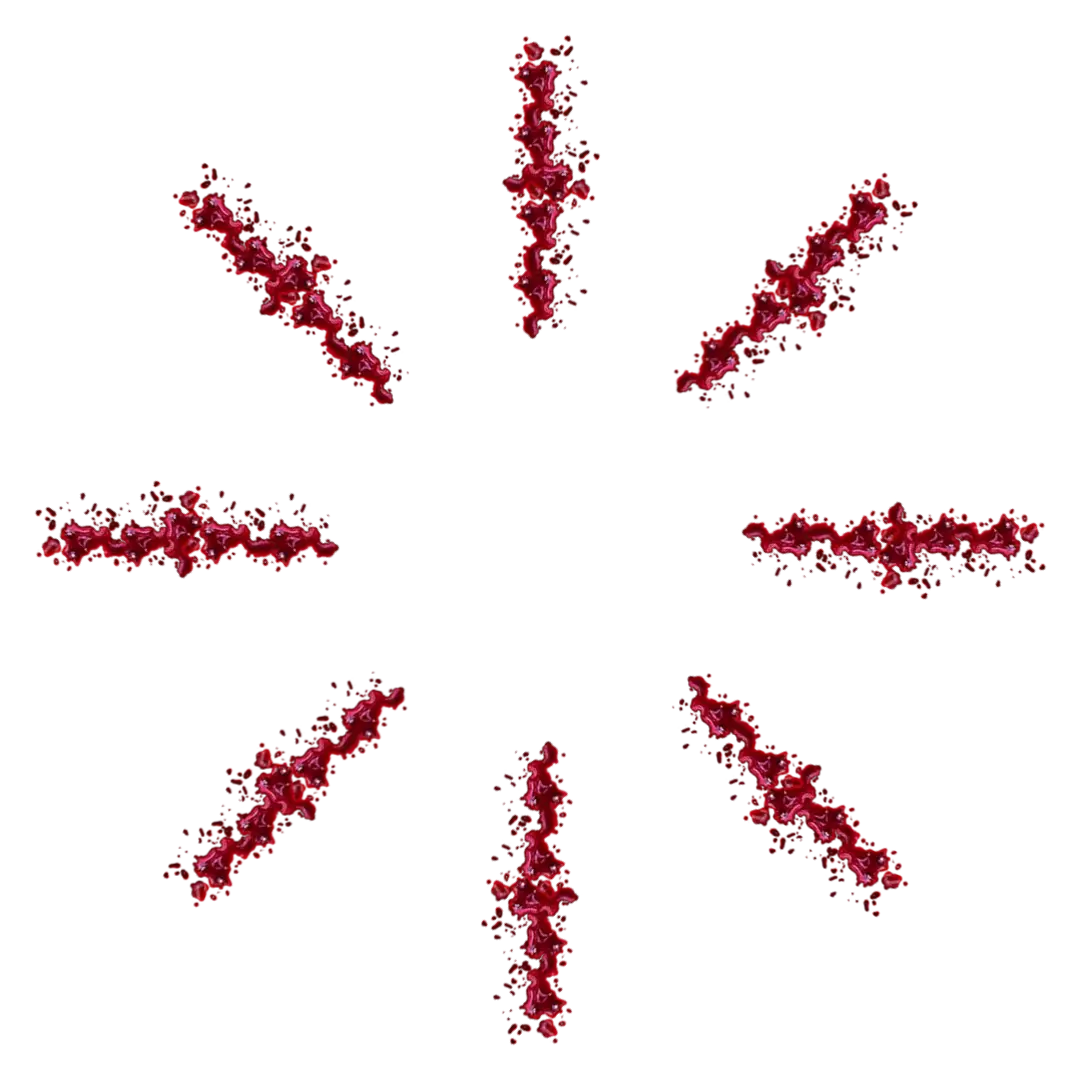
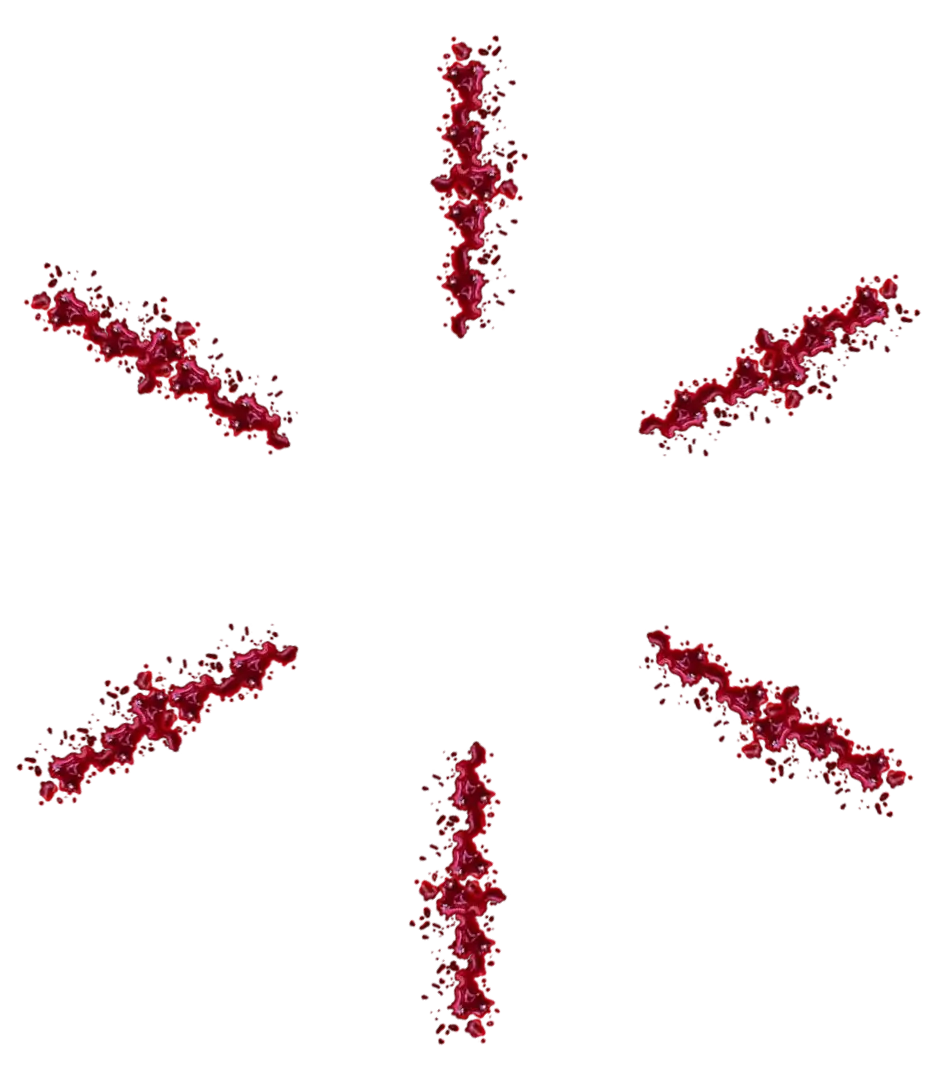
Edit social links

diff --git a/layouts/index.html b/layouts/index.html
@@ -286,18 +286,8 @@
                             </a> 
                         </li>
                         <li>
-                            <a href="">
-                                <img src="/img/twitch-logo.svg" alt="Twitch logo">
-                            </a> 
-                        </li>
-                        <li>
                             <a href="https://twitter.com/creatures_ofwar" target="_blank">
                                 <img src="/img/twitter-logo.svg" alt="Twitter logo">
-                            </a> 
-                        </li>
-                        <li>
-                            <a href="">
-                                <img src="/img/facebook-logo.svg" alt="Facebook logo">
                             </a> 
                         </li>
                         <li>
@@ -379,7 +369,7 @@
                 </div>
                 <p class="text-base text-center mb-40">Genre: Survival Horror Approximate RD: Spring 2023</p>
                 <p class="text-base text-center mb-40">Players: 1 Rating: Not Yet Rated</p>
-                <div class="flex-row between wrap">
+                <div class="social__grid">
                     <a href="https://www.youtube.com/channel/UCHkTbsExwVcYOOjE4D9o2yQ" target="_blank">
                         <img src="/img/youtube-logo.svg" alt="YouTube logo" class="logo--small">
                     </a>
@@ -395,14 +385,8 @@
                     <a href="https://www.instagram.com/gamerdevtim/" target="_blank">
                         <img src="/img/instagram-logo.svg" alt="Instagram logo" class="logo--small">
                     </a>
-                    <a href="">
-                        <img src="/img/twitch-logo.svg" alt="Twitch logo" class="logo--small">
-                    </a>
                     <a href="https://vm.tiktok.com/ZMR6URRXq/" target="_blank">
                         <img src="/img/tiktok-logo.svg" alt="TikTok logo" class="logo--small">
-                    </a>
-                    <a href="">
-                        <img src="/img/facebook-logo.svg" alt="Facebook logo" class="logo--small">
                     </a>
                 </div>
             </div>

diff --git a/assets/sass/styles.css b/assets/sass/styles.css
@@ -1125,15 +1125,15 @@ input[type=email], input[type=text] {
 
 .circle-container {
   position: relative;
-  width: 60rem;
-  height: 60rem;
+  width: 50rem;
+  height: 50rem;
   padding: 0;
   border-radius: 50%;
   list-style: none;
   margin: 5rem auto 0;
   background-image: url("/img/blood-splatter.webp");
   background-position: center center;
-  background-size: 85%;
+  background-size: 75%;
   background-repeat: no-repeat;
 }
 .circle-container > * {
@@ -1146,28 +1146,22 @@ input[type=email], input[type=text] {
   margin: -3rem;
 }
 .circle-container > *:nth-of-type(1) {
-  transform: rotate(0deg) translate(30rem) rotate(0deg);
+  transform: rotate(30deg) translate(25rem) rotate(-30deg);
 }
 .circle-container > *:nth-of-type(2) {
-  transform: rotate(45deg) translate(30rem) rotate(-45deg);
+  transform: rotate(90deg) translate(25rem) rotate(-90deg);
 }
 .circle-container > *:nth-of-type(3) {
-  transform: rotate(90deg) translate(30rem) rotate(-90deg);
+  transform: rotate(150deg) translate(25rem) rotate(-150deg);
 }
 .circle-container > *:nth-of-type(4) {
-  transform: rotate(135deg) translate(30rem) rotate(-135deg);
+  transform: rotate(210deg) translate(25rem) rotate(-210deg);
 }
 .circle-container > *:nth-of-type(5) {
-  transform: rotate(180deg) translate(30rem) rotate(-180deg);
+  transform: rotate(270deg) translate(25rem) rotate(-270deg);
 }
 .circle-container > *:nth-of-type(6) {
-  transform: rotate(225deg) translate(30rem) rotate(-225deg);
-}
-.circle-container > *:nth-of-type(7) {
-  transform: rotate(270deg) translate(30rem) rotate(-270deg);
-}
-.circle-container > *:nth-of-type(8) {
-  transform: rotate(315deg) translate(30rem) rotate(-315deg);
+  transform: rotate(330deg) translate(25rem) rotate(-330deg);
 }
 .circle-container img {
   display: block;
@@ -1628,7 +1622,7 @@ hr {
 
 .social__grid {
   display: grid;
-  grid-template-columns: repeat(4, minmax(0, 1fr));
+  grid-template-columns: repeat(3, minmax(0, 1fr));
   grid-template-rows: repeat(2, minmax(0, 1fr));
   place-items: center;
 }

diff --git a/layouts/static/press.html b/layouts/static/press.html
@@ -112,14 +112,8 @@
                 <a href="https://www.instagram.com/gamerdevtim/" target="_blank">
                     <img src="/img/instagram-logo.svg" alt="Instagram logo" class="logo--small">
                 </a>
-                <a href="">
-                    <img src="/img/twitch-logo.svg" alt="Twitch logo" class="logo--small">
-                </a>
                 <a href="https://vm.tiktok.com/ZMR6URRXq/" target="_blank">
                     <img src="/img/tiktok-logo.svg" alt="TikTok logo" class="logo--small">
-                </a>
-                <a href="">
-                    <img src="/img/facebook-logo.svg" alt="Facebook logo" class="logo--small">
                 </a>
             </div>
         </div>

diff --git a/assets/sass/layouts/_index.scss b/assets/sass/layouts/_index.scss
@@ -278,11 +278,11 @@ input[type="email"], input[type="text"] {
 }
 
 .circle-container {
-    @include on-circle($item-count: 8, $circle-size: 60rem, $item-size: 6rem);
+    @include on-circle($item-count: 6, $circle-size: 50rem, $item-size: 6rem);
     margin: 5rem auto 0;
     background-image: url('/img/blood-splatter.webp');
     background-position: center center;
-    background-size: 85%;
+    background-size: 75%;
     background-repeat: no-repeat;
 
     img {

diff --git a/layouts/legal/single.html b/layouts/legal/single.html
@@ -6,7 +6,7 @@
     <div class="container">
         <div class="text-center mx-auto">
             <h2 class="text-5xl mb-40">{{ .Title }}</h2>
-            <p class="text-xl"><strong>Last updated: </strong>{{ .Lastmod.Format "January 2, 2006" }}</p>
+            <p class="text-xl"><strong>Last updated: </strong>{{ .Date.Format "January 2, 2006" }}</p>
         </div>
     </div>
 </section>

diff --git a/assets/sass/layouts/_press.scss b/assets/sass/layouts/_press.scss
@@ -55,7 +55,7 @@ main {
 
 .social__grid {
     display: grid;
-    grid-template-columns: repeat(4, minmax(0, 1fr));
+    grid-template-columns: repeat(3, minmax(0, 1fr));
     grid-template-rows: repeat(2, minmax(0, 1fr));
     place-items: center;
 }

diff --git a/assets/sass/abstracts/_mixins.scss b/assets/sass/abstracts/_mixins.scss
@@ -40,7 +40,7 @@
         margin: -($item-size / 2);
 
         $angle: (360 / $item-count);
-        $rot: 0;
+        $rot: 30;
 
         @for $i from 1 through $item-count {
             &:nth-of-type(#{$i}) {

diff --git a/content/legal/privacy-policy.md b/content/legal/privacy-policy.md
@@ -1,6 +1,7 @@
 ---
 type: legal
 layout: privacy-policy
+date: 2021-08-27
 
 title: "Privacy Policy"
 url: "/privacy-policy"
@@ -10,23 +11,24 @@ draft: false
 
 ## Briefing
 
-This privacy policy informs you about the gathering, currations, and intent of how Ultima Entertainment, email: CreaturesOfWar@gmail.com, wants to handle your private data. 
+This privacy policy informs you about the gathering, currations, and intent of how Chaos Entertainment, email: [Cretaceousawakening@gmail.com](mailto:cretaceousawakening@gmail.com), wants to handle your private data. 
 
-This Privacy Policy is in effect when you opt-in to the Creatures Of War newsletter via the (Field Operator Program), travel to the Creatures Of War website ( www.creaturesofwar.com), or while actually playing Creatures Of War. 
+This Privacy Policy is in effect when you opt-in to the Creatures Of War newsletter via the (Field Operator Program), travel to the Creatures Of War website ([www.creatureofwar.com](https://creatureofwar.com)), or while actually playing Creatures Of War. 
 
 You will always be able to feel protected when you opt-in to giving us your private information. The intent of this Policy is to highlight how we handle your personal information and to make sure that your data is taken care of in accordance with relevant data protection laws. Our aim is to collect relevant personal data in regards to consumer segmentation. The better we understand our consumers, the more honed in we can get with product development across not only our games but all marketing communications as well. 
 
+
 ## The Data Collection Process 
 
-We gather data whenever you browse CreaturesOfWar.com, when you opt-in to our newsletter, and when you open our newsletters. The private information is stored in our CRM software and web analytics software. Ultima Entertainment can also gather information when you play our games on (Epic Games Store, Humble-Bundle, Steam, through the use of Unity Analytics). We will gather information when a bug or crash has occurred, and the user has reported said incident.
+We gather data whenever you browse CreatureOfWar.com, when you opt-in to our newsletter, and when you open our newsletters. The private information is stored in our CRM software and web analytics software. Chaos Entertainment can also gather information when you play our games on Steam, through the use of Unity Analytics. We will gather information when a bug or crash has occurred, and the user has reported said incident.
  
 ## Private Data We Analyze
 
-If you are a have opted-in to the Field Operative program by giving us your email address, we will collect and process your email address, the emails that have been interacted with, the links within each email that are engaged with, and the time, day, and year that you opted-in to the Field Operative program.
+If you have opted-in to the Field Operative program by giving us your email address, we will collect and process your email address, the emails that have been interacted with, the links within each email that are engaged with, and the time, day, and year that you opted-in to the Field Operative program.
 
 ## When Visiting CreaturesOfWar.com
 
-Ultima Entertainment collects and processes your IP address and your use of Ultima Entertainment’ websites. For information on how we collect information from cookies, please see section 12 about our usage of cookies. The information we collect for visitors of our site are: 
+Chaos Entertainment collects and processes your IP address and your use of Chaos Entertainment’ websites. The information we collect for visitors of our site are: 
 
 - Which pages you visit 
 - Time spent on each page 
@@ -35,9 +37,10 @@ Ultima Entertainment collects and processes your IP address and your use of Ulti
 - What type of browser you are using
 - Country and location you are visiting from
 - The device you are using
-- If you play our games
 
-Ultima Entertainment collects data about your usage play when using our game. During gameplay we may collect…
+### If you play our games
+
+Chaos Entertainment collects data about your usage play when using our game. During gameplay we may collect…
 
 - Gameplay and device information from players who play our games
 
@@ -45,77 +48,58 @@ Ultima Entertainment collects data about your usage play when using our game. Du
 
 - Hardware specs, usage data, in-app purchase behavior, and custom event data
 
-Influencers who have signed and submitted their influencer forms will have email address, we will collect and process your email address, the emails that have been interacted with, the influencer channel / platforms you engage with, the links within each email that are engaged with, and the time, day, and year that you opted-in to the Field Operative program.
+Influencers who have signed and submitted their influencer forms will give us access to your email address, the emails that have been interacted with, the influencer channel / platforms you engage with, the links within each email that are engaged with, and the time, day, and year that you opted-in to the Field Operative program.
 
-## Why Ultima Entertainment Curates Your Private Data
+## Why Chaos Entertainment Curates Your Private Data
 
-We curate your private data to help improve our understanding of our consumer base. If Ultima Entertainment will not use your private data for any other reason, if there is a reason to do so, we will reach out to you directly and ask for consent. If you are a Field Operative of Ultima Entertainment we will process your personal data in order to send you emails,  trace your engagement with the newsletter to augment the newsletters content based upon consumer engagement rates, and alter the newsletter if bugs are occurring. When actively using / visiting CreaturesOfWar.com, Ultima Entertainment gathers your personal data in order to assess how you navigate our website. This is crucial in our ability to optimize the website to be user friendly and improve website quality. The data also helps optimize the website if users are experiencing bugs on the site. All content creators / streamers (that have registered through Sendinblue) will have Ultima Entertainment gather your personal data so we can communicate with you via email, track user interactions with our emails to assess / adjust our content, and to fix our email send out if we run into any issues on your end.
+We curate your private data to help improve our understanding of our consumer base. If Chaos Entertainment uses your private data for any other reason, if there is a reason to do so, we will reach out to you directly and ask for consent. If you are a Field Operative of Chaos Entertainment we will process your personal data in order to send you emails,  trace your engagement with the newsletter to augment the newsletters content based upon consumer engagement rates, and alter the newsletter if bugs are occurring. When actively using / visiting CreatureOfWar.com, Chaos Entertainment gathers your personal data in order to assess how you navigate our website. This is crucial in our ability to optimize the website to be user friendly and improve website quality. The data also helps optimize the website if users are experiencing bugs on the site. All content creators / streamers (that have registered through Sendinblue) will have Chaos Entertainment gather your personal data so we can communicate with you via email, track user interactions with our emails to assess / adjust our content, and to fix our email send out if we run into any issues on your end.
 
 ## Justification For Processing Your Data
 
-We justify the analysis of your personal data on these legal ramifications. We analyze the data gathered through cookies and email addresses based on your consent. When you enroll in our newsletter you will be asked to agree to the analysis of your personal data so we can send a newsletter to you. Cookies garner consent via a pop-up which informs you about the usage of the specifically used cookies on our site. 
+We justify the analysis of your personal data on these legal ramifications. We analyze the data gathered through google analytics and email addresses based on your consent. When you enroll in our newsletter you will be asked to agree to the analysis of your personal data so we can send a newsletter to you. 
 
 ## Consumer Segmentation 
 
-Ultima Entertainment will analyze your personal data for consumer segmentation. While you are on our website or have subscribed to our newsletter, we will analyze information in order to create a consumer segment for you. Segmentation is based on: How you use the Creatures Of War website. Which emails you opened and engaged with. We also gather information pertaining to engagements with the newsletters.
+Chaos Entertainment will analyze your personal data for consumer segmentation. While you are on our website or have subscribed to our newsletter, we will analyze information in order to create a consumer segment for you. Segmentation is based on: How you use the Creatures Of War website. Which emails you opened and engaged with. We also gather information pertaining to engagements with the newsletters.
 
 The intent of consumer segmentation is to provide focused promotions that we think you will like in regards to products that we offer. 
 
-You may at any time object to the curation / gathering process of your private data described above. You have the right, at any time, to withdraw your consent towards receiving direct communications. You can do this by contacting us at CreaturesOfWar@gmail.com. Once the notification has been received, we will immediately stop processing your private data and discontinue your email from the newsletter. 
+You may at any time object to the curation / gathering process of your private data described above. You have the right, at any time, to withdraw your consent towards receiving direct communications. You can do this by contacting us at [Cretaceousawakening@gmail.com](mailto:cretaceousawakening@gmail.com). Once the notification has been received, we will immediately stop processing your private data and discontinue your email from the newsletter. 
 
 ## How long do we keep information about you? 
 
-Private information is stored as long as required to consummate the purposes for which the information was collected. Ultima Entertainment will stash private information for large chunks of time unless notified by you. 
+Private information is stored as long as required to consummate the purposes for which the information was collected. Chaos Entertainment will stash private information for large chunks of time unless notified by you. 
 
-Your private data is kept in the analytics programs we use as long as we have an on-going connection with you. A connection is defined as you opting into the field operative program and giving us your email address, and or engaging in the use of Ultime Entertainments games. If you want us to delete your private information and to remove you from the field operative program we will do so immediately. 
+Your private data is kept in the analytics programs we use as long as we have an on-going connection with you. A connection is defined as you opting into the field operative program and giving us your email address, and or engaging in the use of Chaos Entertainment’s games. If you want us to delete your private information and to remove you from the field operative program we will do so immediately. 
 
 ## Third Party Entities We Share Your Private Data With
 
-If required of us, Ultima Entertainment will release information to third parties. This will include Google Analytics, Sendinblue, and Netlify. On condition that a third party processes private information for the benefit of Ultima Entertainment, Ultima Entertainment will engage in curration agreements with these companies in which the curator is strictly allowed to analyze private information that conform to the specifics of this privacy policy. Ultima Entertainment does not sell a user's private information to any corporation, business, or individual. Third parties that Ultima Entertainment will hand data to may only use this data to promote Ultima Entertainments games. Third parties that we interact with include Sendinblue, Netlify, Google Analytics, Unity, Steam, Epic Games Store, and Humble-Bundle. Their privacy policies can be found at the bottom of this document. If data is requested from a government your private data will be submitted to them in legal defense of Ultima Entertainment. This can also occur if fraud can be avoided by submitting user data. 
+If required of us, Chaos Entertainment will release information to third parties. This will include Google Analytics, Sendinblue, and Netlify. On condition that a third party processes private information for the benefit of Chaos Entertainment, Chaos Entertainment will engage in curration agreements with these companies in which the curator is strictly allowed to analyze private information that conform to the specifics of this privacy policy. Chaos Entertainment does not sell a user's private information to any corporation, business, or individual. Third parties that Chaos Entertainment will hand data to may only use this data to promote Chaos Entertainments games. Third parties that we interact with include Sendinblue, Netlify, Google Analytics, Unity, and Steam (Valve). Their privacy policies can be found below. If data is requested from a government your private data will be submitted to them in legal defense of Chaos Entertainment. This can also occur if fraud can be avoided by submitting user data. 
 
-- our chosen system for web analytics (Google Analytics) 
-    -For more information about Google Analytics’ privacy policy, which may be updated from time to time, please visit: 
-https://www.google.com/analytics/terms/us.html 
-- our chosen CRM system (Sendinblue) 
-    -For more information about Sendinblue’s privacy policy, which may be updated from time to time, please visit: 
-https://Sendinblue.com/legal/privacy/ 
-- our chosen system for web hosting (One.com) 
-    - For more information about One.com’s privacy policy, which may be updated from time to time, please visit: 
-https://www.one.com/en/info/privacy-policy 
-- our chosen game backend platform (PlayFab) 
-    - Information: Data and Network. For more information about PlayFab’s privacy policy, which may be updated from time to time, please visit: https://playfab.com/terms/ 
-- our chosen game engine and chosen system for game analytics (Unity)
-    - For more information about Unity’s privacy policy, which may be updated from time to time, please visit 
-https://unity3d.com/legal/privacy-policy. 
-- our chosen bug reporting tool Jira (Atlassian) 
-    - For more information about Atlassian’s privacy policy, which may be updated from time to time, please visit: 
-https://www.atlassian.com/legal/privacy-policy 
-
-## Ultima Entertainment Privacy Policy
-
-- our chosen payment provider for the webshop (PayPal) 
-    - For more information about PayPal’s privacy policy, which may be updated from time to time, please visit: 
-https://www.paypal.com/uk/webapps/mpp/ua/privacy-prev 
-- our chosen game distribution platform Steam (Valve) 
-    - For more information about Valve’s privacy policy, which may be updated from time to time, please visit: 
-https://store.steampowered.com/privacy_agreement/ 
+- Google Analtyics: [https://www.google.com/analytics/terms/us.html](https://www.google.com/analytics/terms/us.html)
+- SendinBlue: [https://Sendinblue.com/legal/privacy/](https://Sendinblue.com/legal/privacy/)
+- Netlify: [https://www.netlify.com/privacy/](https://www.netlify.com/privacy/)
+- Unity: [https://unity3d.com/legal/privacy-policy](https://unity3d.com/legal/privacy-policy)
+- Steam (Valve): [https://store.steampowered.com/privacy_agreement/](https://store.steampowered.com/privacy_agreement/)
 
 ## Alterations To The Privacy Policy 
 
-Ultima Entertainment has the right to change and update this Privacy policy whenever we please. Ultima Entertainment will make the adjusted privacy policy available on CreaturesOfWar.com. Ultima Entertainment will contact you in a timely manner if alterations are made to the Privacy Policy. If the adjustments need your approval, you will be notified of these adjustments before any alterations occur. 
+Chaos Entertainment has the right to change and update this Privacy policy whenever we please. Chaos Entertainment will make the adjusted privacy policy available on CreatureOfWar.com. Chaos Entertainment will contact you in a timely manner if alterations are made to the Privacy Policy. If the adjustments need your approval, you will be notified of these adjustments before any alterations occur. 
 
 ## User Protections
 
-Ultima Entertainment is solely accountable for the curation of your private information in reference to relevant governing laws. Ultima Entertainment will delete any collected information that is misleading or incorrect about the user. Any false information will not be held onto. If requested, a document outlining all uses of your private information will be sent to you. If required by you, data relating to the uses of your information in regards to third party applicants, may result in a fee as this could require a lot of leg work. You can ask for adjustments of your private data. You may request deletion of your private data at any time, and we will oblige as long as we are not obligated to hold onto your private data because of legal issues. You have the option to request that your personal data be sent to a third party for analysis of its uses. It is not required that we make this information machine readable or curate the information for you in any way. If you wish to get out from the email marketing list, we will remove you immediately and cease data collection on you. If you have an issue or question about anything listed above, feel free to reach out to us at CreaturesOfWar@gmail.com. If such a request is made, we will need to identify you and make sure your records are on hand. If this is the case we can follow through with any of the previously listed User Protections.  
+Chaos Entertainment is solely accountable for the curation of your private information in reference to relevant governing laws. Chaos Entertainment will delete any collected information that is misleading or incorrect about the user. Any false information will not be held onto. If requested, a document outlining all uses of your private information will be sent to you. If required by you, data relating to the uses of your information in regards to third party applicants, may result in a fee as this could require a lot of leg work. You can ask for adjustments of your private data. You may request deletion of your private data at any time, and we will oblige as long as we are not obligated to hold onto your private data because of legal issues. You have the option to request that your personal data be sent to a third party for analysis of its uses. It is not required that we make this information machine readable or curate the information for you in any way. If you wish to get out from the email marketing list, we will remove you immediately and cease data collection on you. If you have an issue or question about anything listed above, feel free to reach out to us at [Cretaceousawakening@gmail.com](mailto:cretaceousawakening@gmail.com). If such a request is made, we will need to identify you and make sure your records are on hand. If this is the case we can follow through with any of the previously listed User Protections.
 
-## Why We Use Cookies 
+## Why We Use Google Analytics
 
-Cookie functionality ranges from helping our website, CreaturesOfWar.com, operate properly all the way to collecting data about the user to help us create more targeted user profiles to aid in the use of marketing communications. CreaturesOfWar.com uses cookies to assess our visitor’s movements to learn what people enjoy and are excited about. CreaturesOfWar.com has google analytics enabled to allow us to track our users and to inform us of how the website is navigated. If cookie storage is undesirable, you can disable cookies in every browser type. Want your visit to not appear in Google Analytics, use this plug-in. https://tools.google.com/dlpage/gaoptout.
+CreatureOfWar.com has google analytics enabled to allow us to track our users and to inform us of how the website is navigated. If you want your visit to not appear in Google Analytics, use this plug-in below. 
+
+[https://tools.google.com/dlpage/gaoptout](https://tools.google.com/dlpage/gaoptout)
 
 ## Email Address Curation
 
-The curation of your email address is strictly limited to the guidelines presented forth in this privacy policy. Private email’s can not be sold, rented or used by another company who has no legal relations to Ultima Entertainment. Any messages sent to your email are delivered and backed by technology that ensures total privacy, no other individuals will have access to your email address. Once you have become a “Field Operative” via subscribing to Ultima Entertainments mailing list, you will be targeted by our mass email program “Sendinblue”. Data that has been sent to Ultima Entertainment will be used for specialized marketing communications. All emails have a URL where you can unsubscribe from the mailing list. Once unsubscribed we stop processing your information and delete your old information from the database. Any prior consent is considered legal until you have unsubscribed / removed consent by contacting Ultima Entertainment’s email at CreaturesOfWar@gmail.com.
+The curation of your email address is strictly limited to the guidelines presented forth in this privacy policy. Private email’s can not be sold, rented or used by another company who has no legal relations to Chaos Entertainment. Any messages sent to your email are delivered and backed by technology that ensures total privacy, no other individuals will have access to your email address. Once you have become a “Field Operative” via subscribing to Chaos Entertainment’s mailing list, you will be targeted by our mass email program “Sendinblue”. Data that has been sent to Chaos Entertainment will be used for specialized marketing communications. All emails have a URL where you can unsubscribe from the mailing list. Once unsubscribed we stop processing your information and delete your old information from the database. Any prior consent is considered legal until you have unsubscribed / removed consent by contacting Chaos Entertainment’s email at [Cretaceousawakening@gmail.com](mailto:cretaceousawakening@gmail.com).
 
-## Ultima Entertainment’s Email Address
+## Chaos Entertainment’s Email Address
 
-Contact us if you have any questions about this Privacy Policy. Ultima Entertainment’s email address is, CreaturesOfWar@gmail.com
+Contact us if you have any questions about this Privacy Policy. Chaos Entertainment’s email address is, [Cretaceousawakening@gmail.com](mailto:cretaceousawakening@gmail.com).
